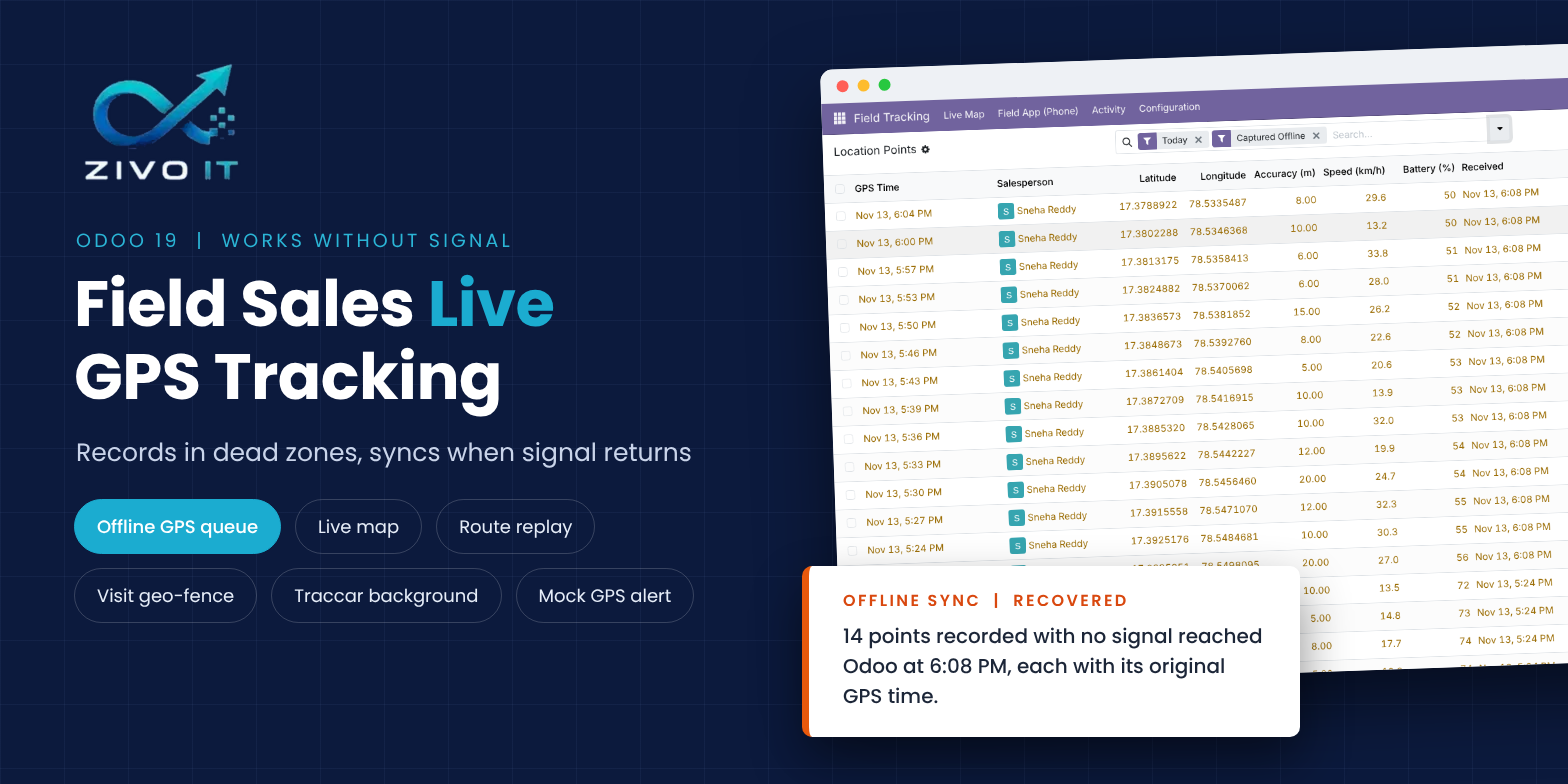
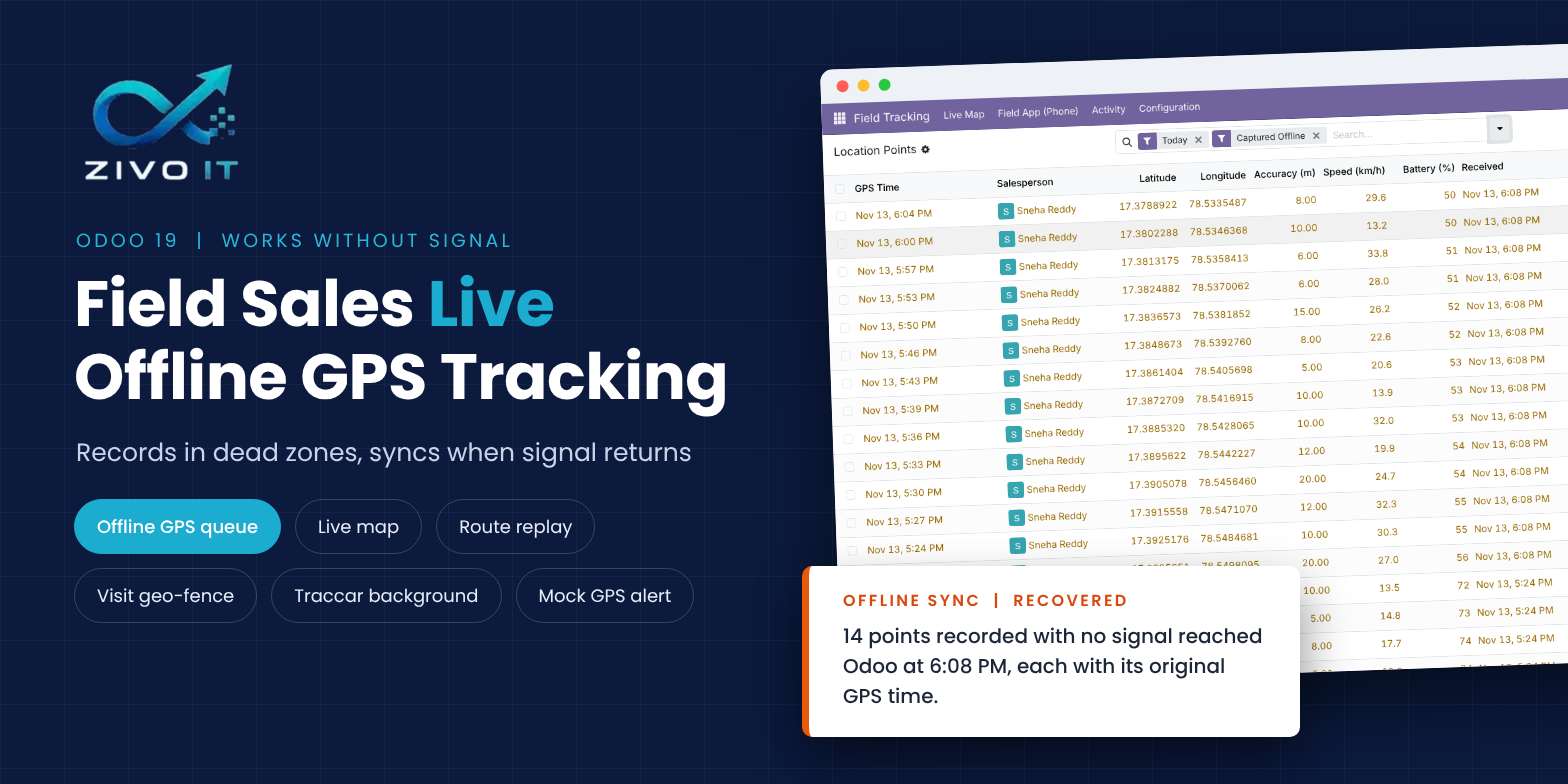
[ADD] Add ZivoIT Field Tracking module

Changed region(s): [[0.0625, 0.4286, 0.4688, 0.551]]

diff --git a/zivoit_field_tracking/static/description/index.html b/zivoit_field_tracking/static/description/index.html
@@ -82,7 +82,7 @@
     <p style="font-size:16.5px;line-height:1.6;color:#3a4a60;margin:0 0 16px;">Every salesperson with today's trail and a clear status:
       <b style="color:#12a150;">Live</b>, <b style="color:#f08c00;">Delayed</b>, <b style="color:#d6336c;">No signal</b>, <b style="color:#5c6b80;">Day ended</b>.
       Auto-refresh every 30 s, battery level, points synced after no-signal, mock-GPS warning.</p>
-    <img src="main_screenshot.png" alt="Live map" style="width:100%;border-radius:14px;box-shadow:0 10px 30px rgba(11,31,58,.18);border:1px solid #e3e8ef;"/>
+    <img src="assets/02_live_map_popup.png" alt="Live map" style="width:100%;border-radius:14px;box-shadow:0 10px 30px rgba(11,31,58,.18);border:1px solid #e3e8ef;"/>
   </div>
 
   <!-- ============ SECTION 05 ============ -->

diff --git a/zivoit_field_tracking/__manifest__.py b/zivoit_field_tracking/__manifest__.py
@@ -61,8 +61,8 @@ Track field salespeople live on a map - even in areas with no mobile signal.
         ],
     },
     'images': [
-        'static/description/banner.png',
         'static/description/main_screenshot.png',
+        'static/description/banner.png',
     ],
     'installable': True,
     'application': True,
